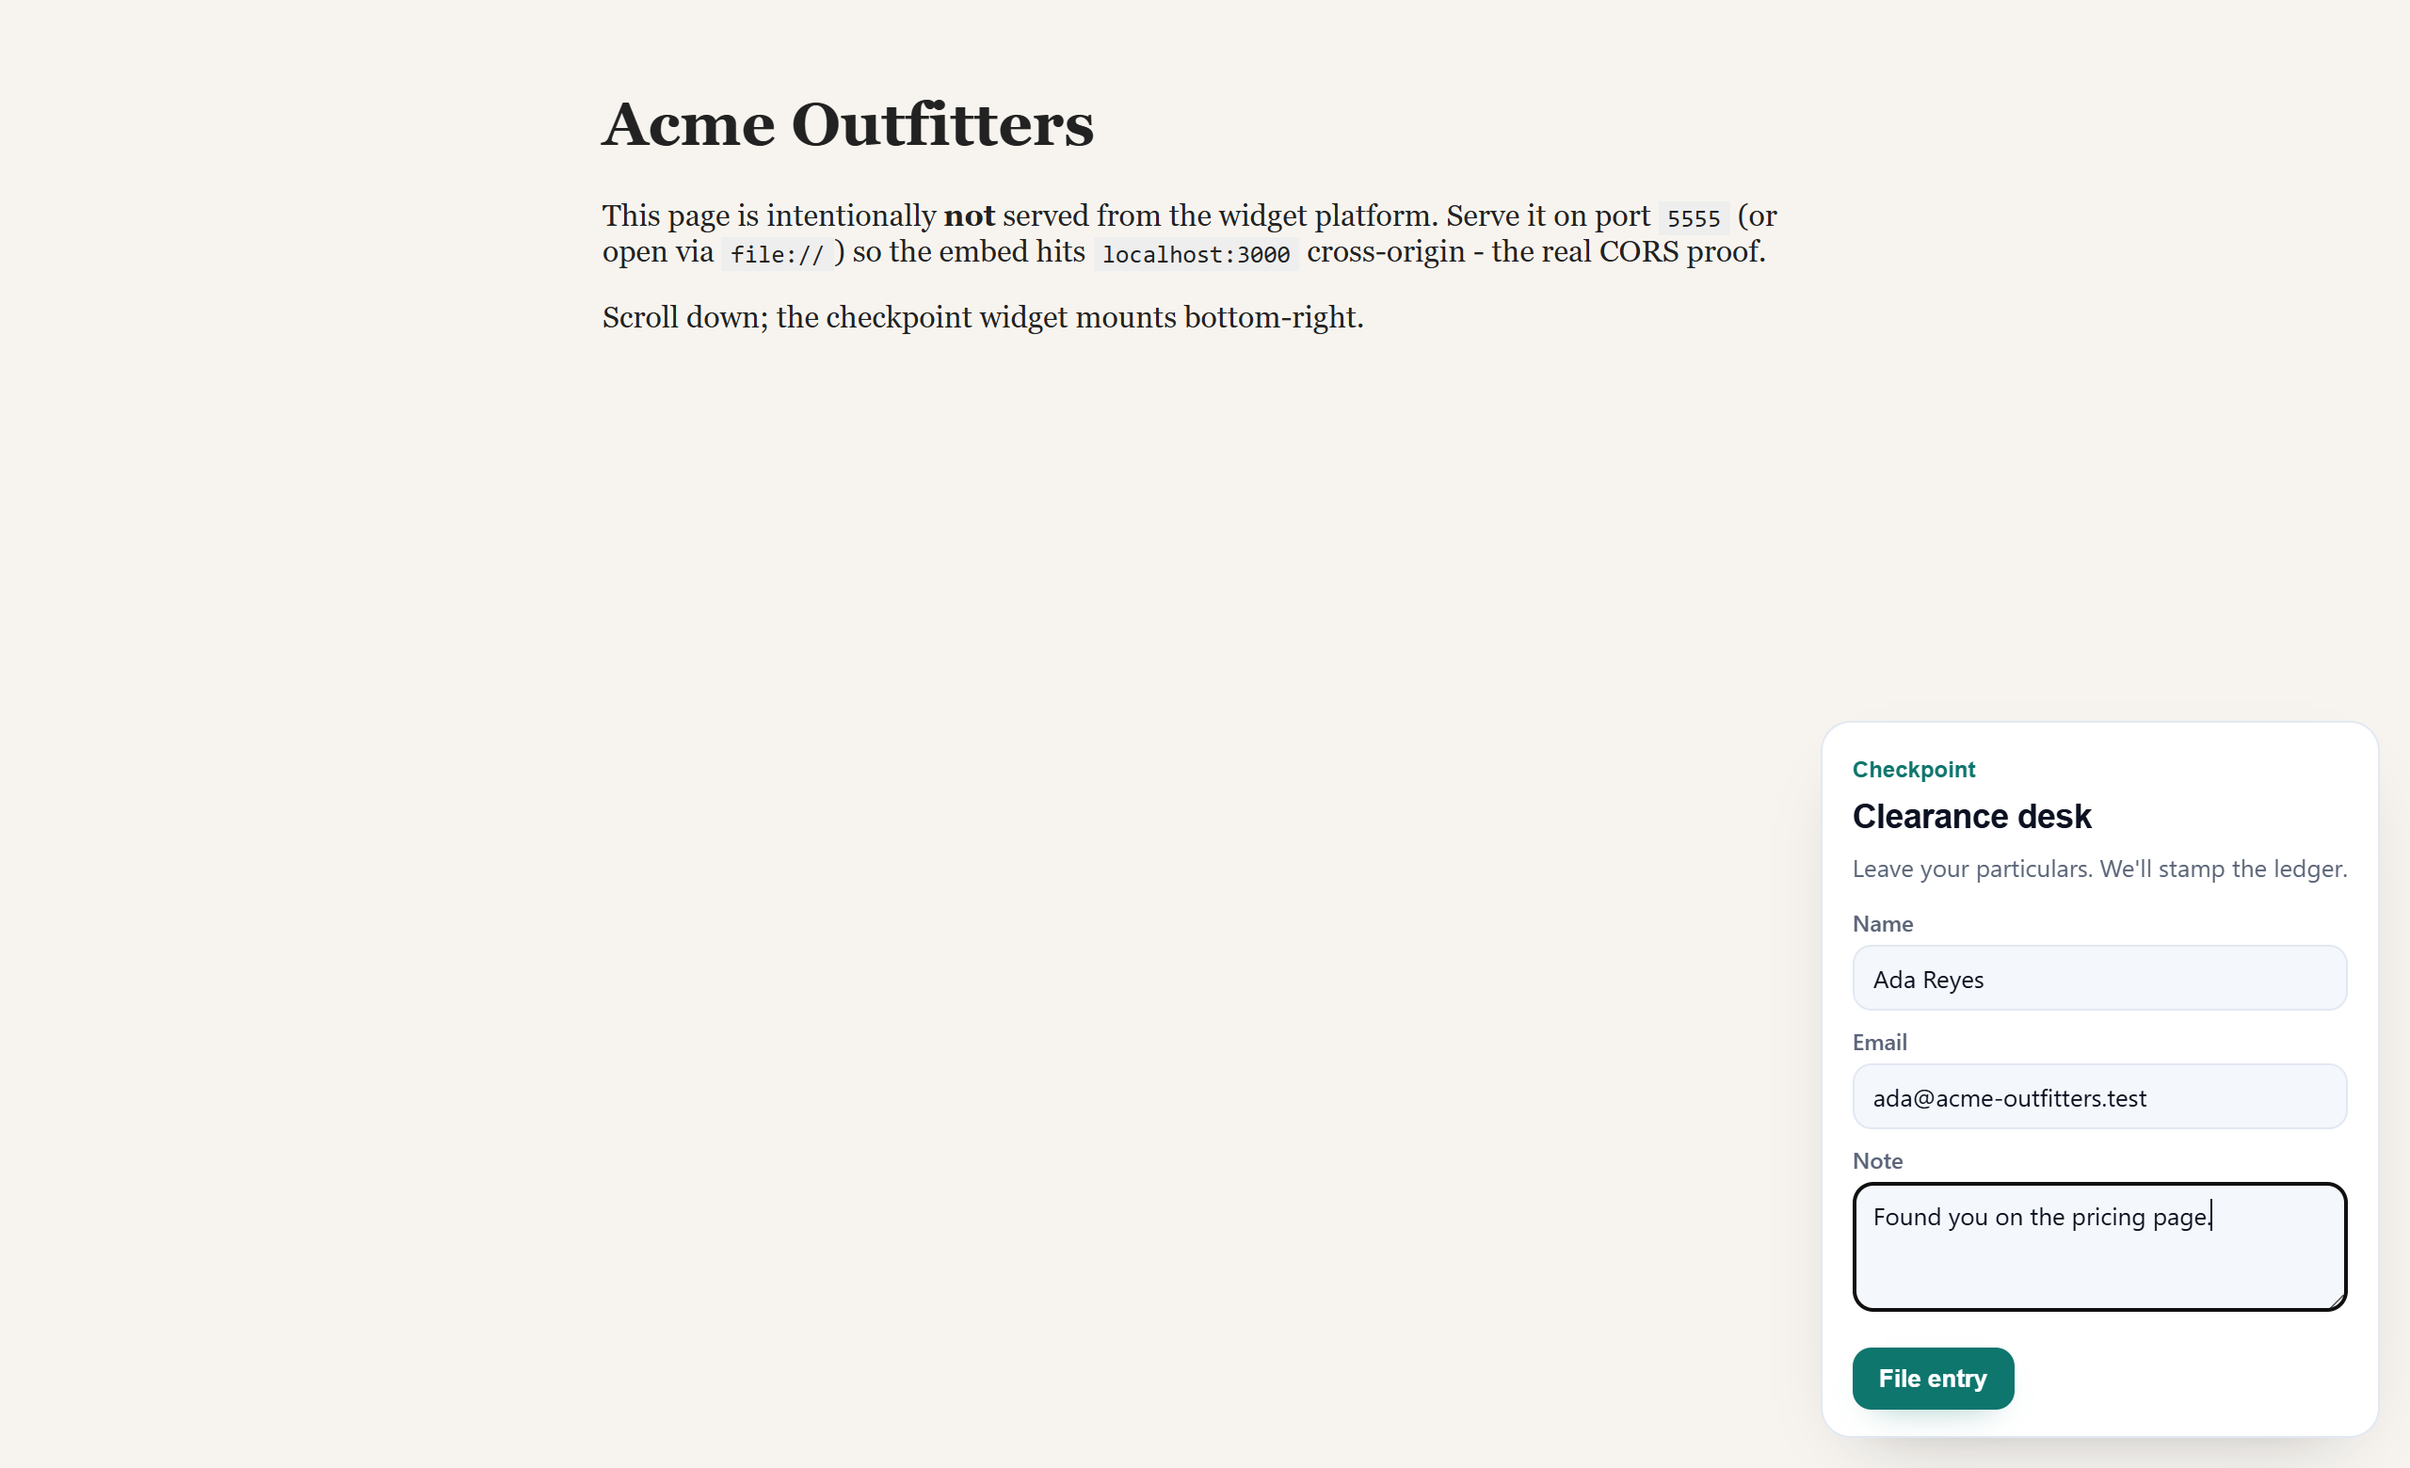
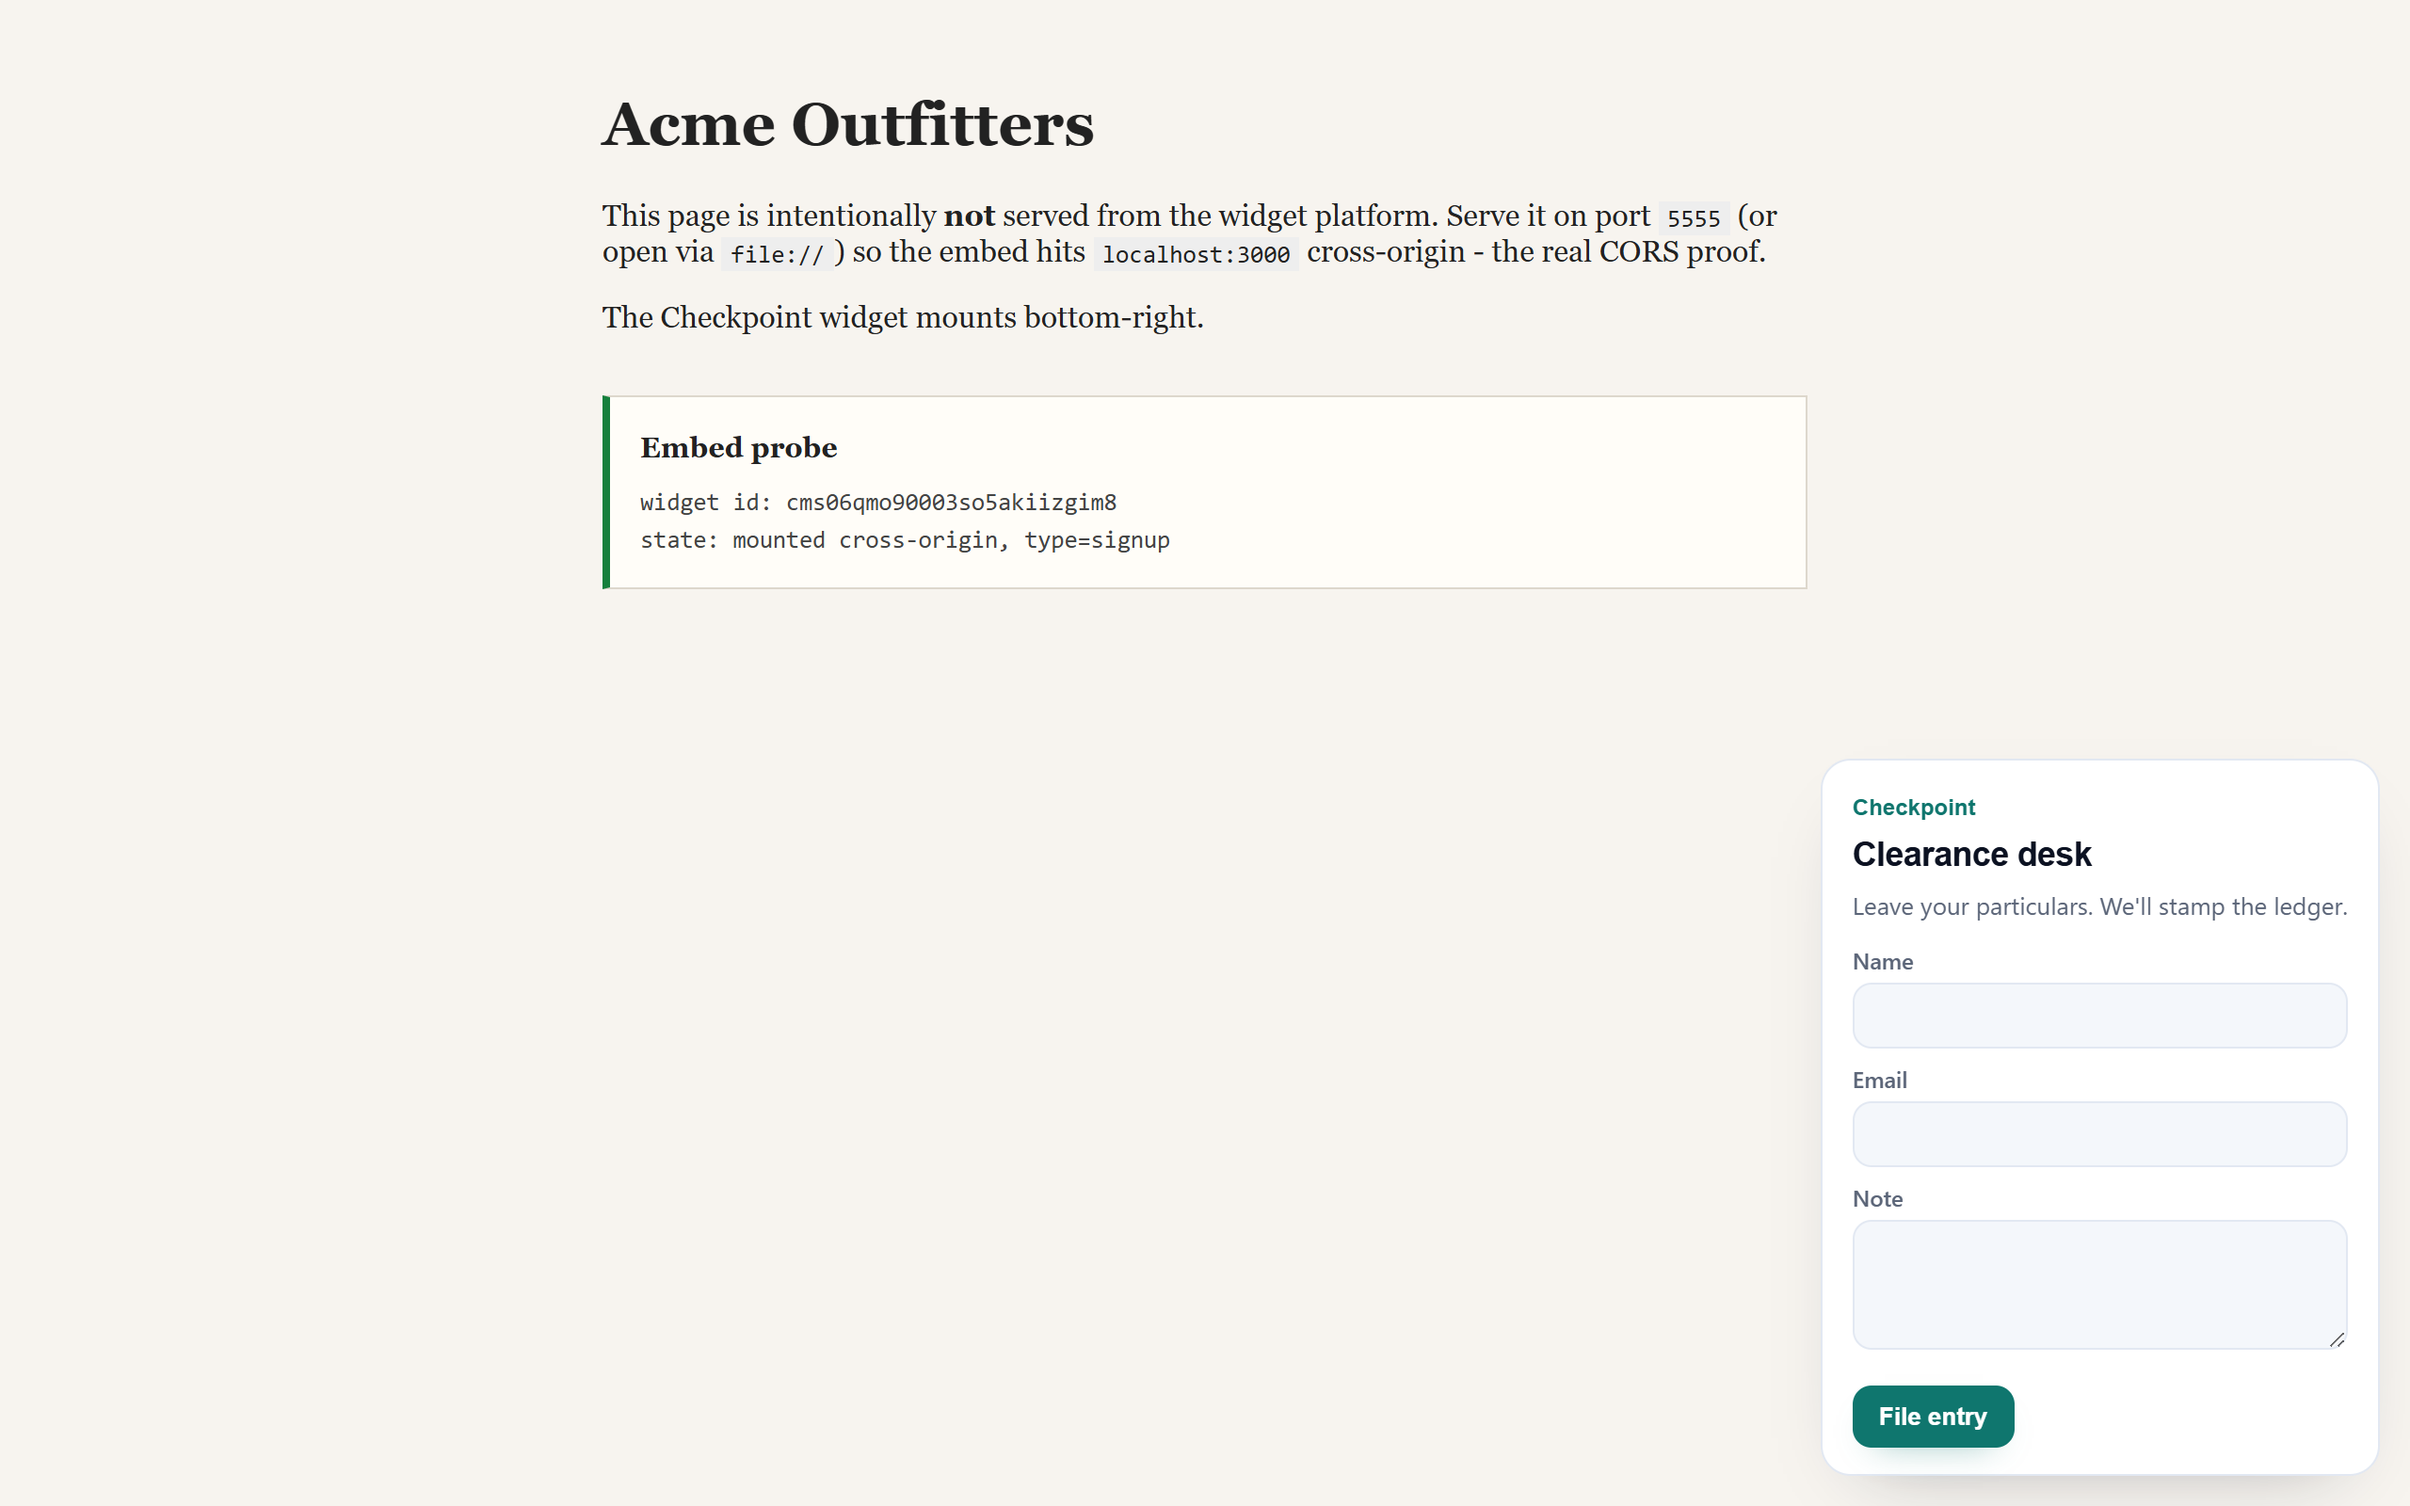
Fix: surface embed failures instead of silently doing nothing

diff --git a/public/widget.js b/public/widget.js
@@ -7,8 +7,24 @@
   if (!script) return;
 
   var widgetId = script.getAttribute("data-widget-id");
+  var debug = script.getAttribute("data-debug") === "true";
+
+  function emit(name, detail) {
+    try {
+      window.dispatchEvent(new CustomEvent("checkpoint:" + name, { detail: detail }));
+    } catch (e) {
+      /* older browsers: events are a convenience, never a requirement */
+    }
+  }
+
+  function fail(reason, detail) {
+    console.error("[checkpoint] " + reason, detail || "");
+    emit("error", { widgetId: widgetId, reason: reason, detail: detail });
+    if (debug) showDebugCard(reason, detail);
+  }
+
   if (!widgetId) {
-    console.error("[wp] missing data-widget-id");
+    fail("missing data-widget-id on the embed script");
     return;
   }
 
@@ -33,7 +49,38 @@
     ".wp-status.ok{color:#15803D;}",
     ".wp-status.bad{color:#DC2626;}",
     ".wp-cta-only .wp-form{display:flex;gap:8px;align-items:flex-end;}",
+    ".wp-debug{position:fixed;inset:auto 16px 16px auto;z-index:2147483000;max-width:320px;background:#FFFFFF;border:1px solid #FCA5A5;border-left:4px solid #DC2626;border-radius:12px;padding:12px 14px;font-family:Figtree,Segoe UI,sans-serif;color:#0C1222;box-shadow:0 16px 40px -24px rgba(12,18,34,.35);}",
+    ".wp-debug b{display:block;font-size:12px;color:#DC2626;margin-bottom:4px;}",
+    ".wp-debug span{display:block;font-size:12px;line-height:1.5;color:#5B6578;}",
+    ".wp-debug code{font-family:ui-monospace,Consolas,monospace;font-size:11px;color:#0C1222;word-break:break-all;}",
   ].join("");
+
+  function injectStyle(target) {
+    var style = document.createElement("style");
+    style.textContent = STYLE;
+    target.appendChild(style);
+  }
+
+  /** Visible failure surface, opt-in via data-debug so customer sites stay clean. */
+  function showDebugCard(reason, detail) {
+    function render() {
+      var box = document.createElement("div");
+      box.className = "wp-debug";
+      injectStyle(box);
+      var title = document.createElement("b");
+      title.textContent = "Checkpoint widget did not mount";
+      var body = document.createElement("span");
+      body.textContent = reason + (detail ? " (" + detail + ")" : "");
+      var id = document.createElement("code");
+      id.textContent = "data-widget-id=" + (widgetId || "missing");
+      box.appendChild(title);
+      box.appendChild(body);
+      box.appendChild(id);
+      document.body.appendChild(box);
+    }
+    if (document.body) render();
+    else document.addEventListener("DOMContentLoaded", render);
+  }
 
   function esc(s) {
     return String(s)
@@ -48,9 +95,7 @@
     root.className = "wp-root";
     root.setAttribute("data-widget-id", config.id);
 
-    var style = document.createElement("style");
-    style.textContent = STYLE;
-    root.appendChild(style);
+    injectStyle(root);
 
     var fields = (config.fields || [])
       .map(function (f) {
@@ -155,11 +200,20 @@
     headers: { Accept: "application/json" },
   })
     .then(function (res) {
-      if (!res.ok) throw new Error("config " + res.status);
+      if (!res.ok) {
+        var hint =
+          res.status === 404
+            ? "unknown or stale widget id, re-run pnpm db:seed and refresh"
+            : "config request rejected";
+        throw new Error(hint + " [HTTP " + res.status + "]");
+      }
       return res.json();
     })
-    .then(mount)
+    .then(function (config) {
+      mount(config);
+      emit("ready", { widgetId: config.id, type: config.type });
+    })
     .catch(function (err) {
-      console.error("[wp] failed to load config", err);
+      fail("could not load widget config", err.message);
     });
 })();

diff --git a/fixtures/customer-site.html b/fixtures/customer-site.html
@@ -2,6 +2,7 @@
 <html lang="en">
   <head>
     <meta charset="utf-8" />
+    <meta http-equiv="cache-control" content="no-store" />
     <title>Customer Site (foreign origin)</title>
     <style>
       body {
@@ -16,6 +17,30 @@
         background: #eee;
         padding: 0.1rem 0.3rem;
       }
+      .probe {
+        margin-top: 2rem;
+        border: 1px solid #ddd7cc;
+        border-left: 4px solid #999;
+        background: #fffdf8;
+        padding: 0.9rem 1rem;
+        font-family: ui-monospace, Consolas, monospace;
+        font-size: 0.8rem;
+        line-height: 1.6;
+        color: #444;
+      }
+      .probe b {
+        display: block;
+        font-family: Georgia, serif;
+        font-size: 0.95rem;
+        color: #222;
+        margin-bottom: 0.4rem;
+      }
+      .probe.ok {
+        border-left-color: #15803d;
+      }
+      .probe.bad {
+        border-left-color: #dc2626;
+      }
     </style>
   </head>
   <body>
@@ -26,13 +51,52 @@
       <code>file://</code>) so the embed hits
       <code>localhost:3000</code> cross-origin - the real CORS proof.
     </p>
-    <p>Scroll down; the checkpoint widget mounts bottom-right.</p>
+    <p>The Checkpoint widget mounts bottom-right.</p>
 
-    <!-- ONE-LINE EMBED - replace WIDGET_ID after seed if needed -->
-    <script
-      src="http://localhost:3000/widget.js"
-      data-widget-id="cms06qmo90003so5akiizgim8"
-      async
-    ></script>
+    <div class="probe" id="probe">
+      <b>Embed probe</b>
+      <span id="probe-id">widget id: resolving...</span><br />
+      <span id="probe-state">state: loading widget.js</span>
+    </div>
+
+    <script>
+      // The seeded widget id changes every `pnpm db:seed`. Allow ?w=<id> so a
+      // stale cached page can be corrected without editing this file.
+      (function () {
+        var seeded = "cms06qmo90003so5akiizgim8";
+        var override = new URLSearchParams(location.search).get("w");
+        var widgetId = override || seeded;
+
+        document.getElementById("probe-id").textContent =
+          "widget id: " + widgetId + (override ? " (from ?w=)" : "");
+
+        var probe = document.getElementById("probe");
+        var state = document.getElementById("probe-state");
+
+        window.addEventListener("checkpoint:ready", function (e) {
+          probe.className = "probe ok";
+          state.textContent =
+            "state: mounted cross-origin, type=" + e.detail.type;
+        });
+
+        window.addEventListener("checkpoint:error", function (e) {
+          probe.className = "probe bad";
+          state.textContent =
+            "state: " + e.detail.reason + " - " + (e.detail.detail || "");
+        });
+
+        var s = document.createElement("script");
+        s.src = "http://localhost:3000/widget.js";
+        s.async = true;
+        s.setAttribute("data-widget-id", widgetId);
+        s.setAttribute("data-debug", "true");
+        s.onerror = function () {
+          probe.className = "probe bad";
+          state.textContent =
+            "state: widget.js failed to load, is the platform running on :3000?";
+        };
+        document.body.appendChild(s);
+      })();
+    </script>
   </body>
 </html>

diff --git a/prisma/seed.ts b/prisma/seed.ts
@@ -69,8 +69,8 @@ async function main() {
   if (fs.existsSync(fixturePath)) {
     let html = fs.readFileSync(fixturePath, "utf8");
     html = html.replace(
-      /data-widget-id="[^"]*"/,
-      `data-widget-id="${widgetA.id}"`
+      /var seeded = "[^"]*"/,
+      `var seeded = "${widgetA.id}"`
     );
     fs.writeFileSync(fixturePath, html);
   }
